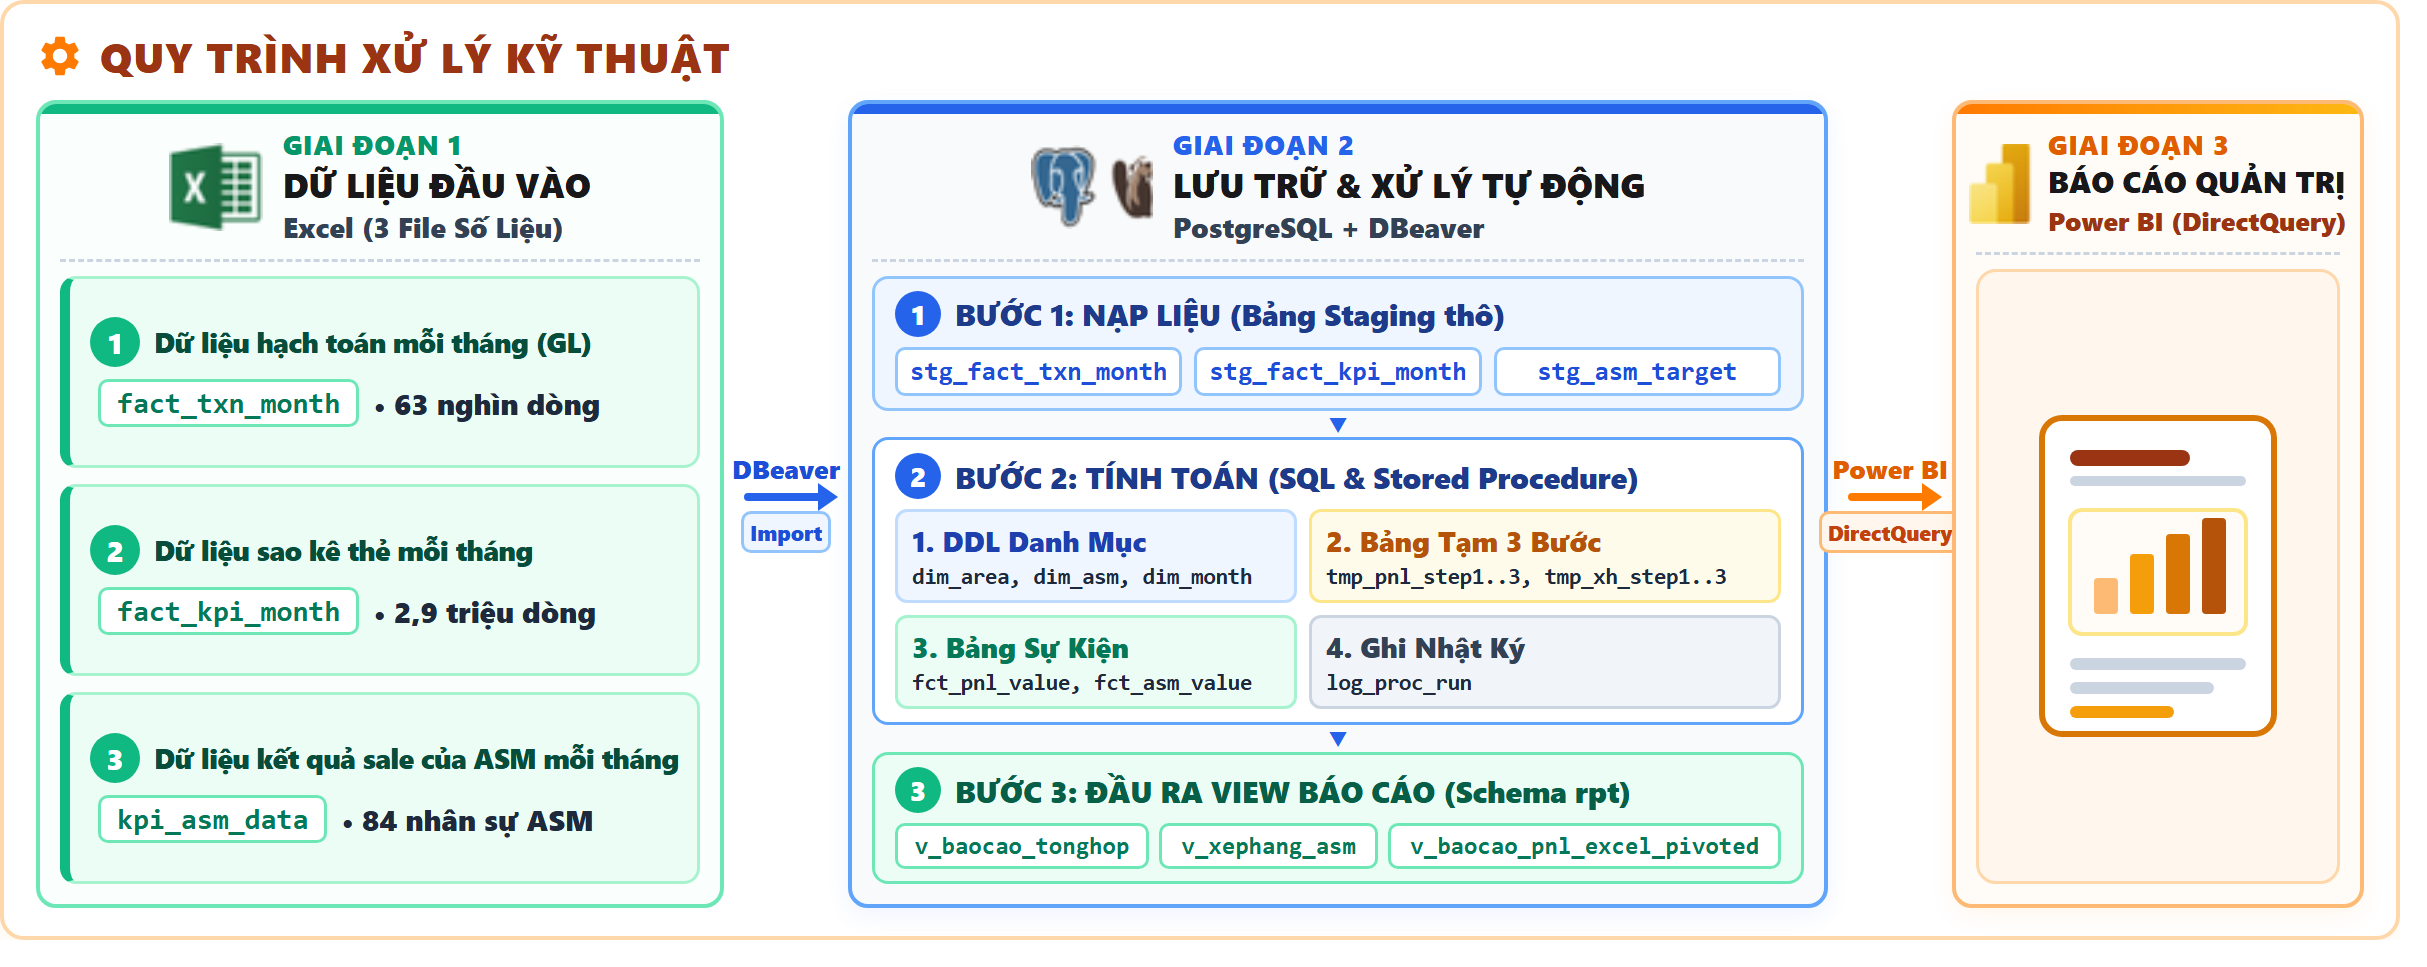
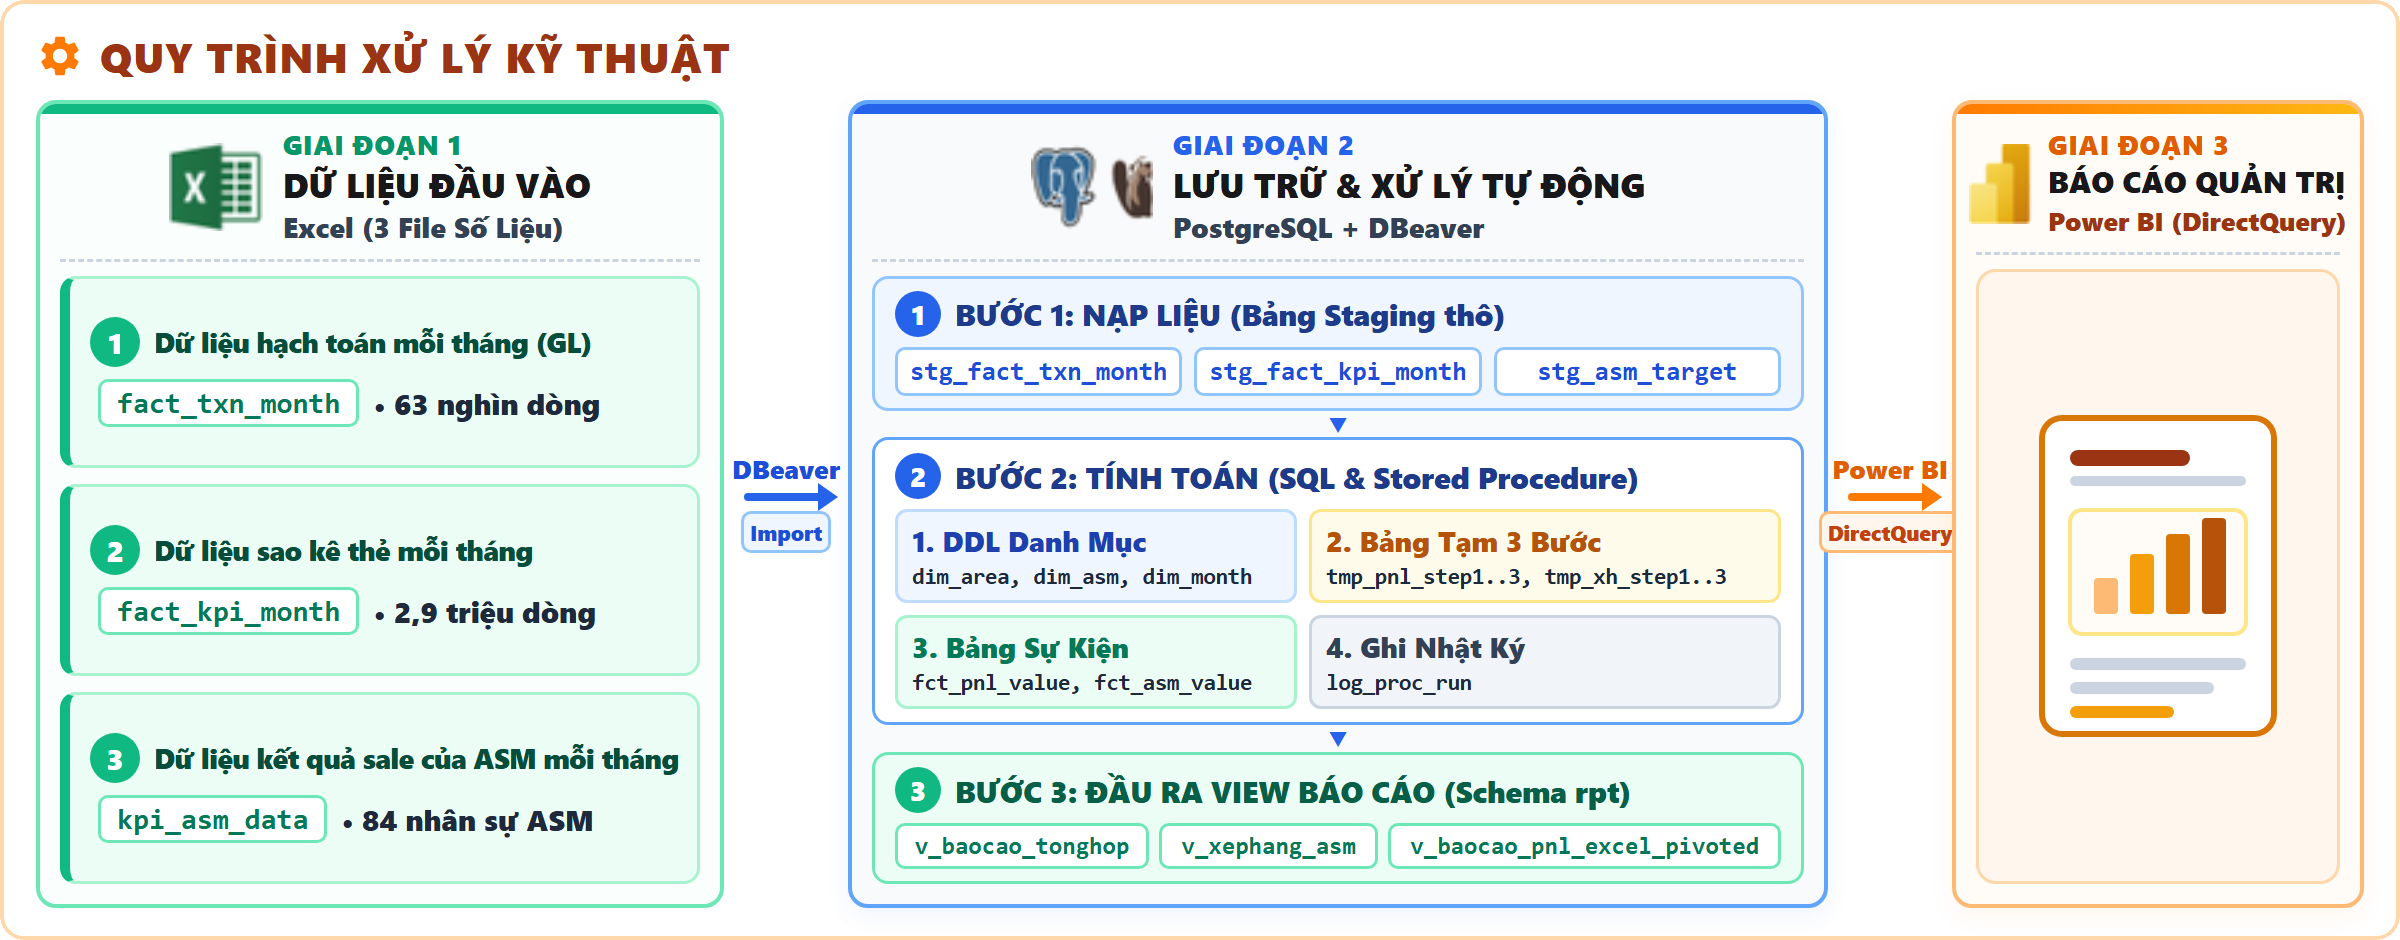
Cat bo ria trang thua va bo goc trong suot cho so do quy-trinh.png

Changed region(s): [[0.0, 0.0, 1.0, 1.0]]

diff --git a/docs/NHAT_KY_CONG_VIEC.md b/docs/NHAT_KY_CONG_VIEC.md
@@ -5,6 +5,11 @@
 
 ## ĐÃ XONG
 ### 2026-11-09
+243. **Xóa bỏ hoàn toàn dải rìa trắng bên ngoài ảnh sơ đồ quy trình xử lý kỹ thuật (`images/quy-trinh.png`)**
+   - Loại bỏ 27px dải trắng thừa ở cạnh phải và cạnh đáy (do bước crop trước để dư margin), đưa kích thước ảnh về chuẩn xác `2400 × 940 px` đúng theo viền khung container.
+   - Áp dụng kênh trong suốt (Alpha channel) bo tròn 4 góc bên ngoài viền khung, giúp sơ đồ hiển thị liền mạch, không còn vệt trắng trên mọi nền trình duyệt/GitHub.
+   - Cập nhật đồng bộ ảnh vào `images/quy-trinh.png` và artifact `quy_trinh_ky_thuat_visual.png`.
+### 2026-11-09
 242. **Gỡ bỏ 7 ảnh chụp các trang Power BI khỏi README song ngữ và kho mã theo yêu cầu người dùng**
    - Loại bỏ 7 khối ảnh chụp các trang Power BI (`tong-quan.png`, `tu-dien.png`, `ket-qua-kinh-doanh.png`, `xh-asm.png`, `danh-gia-kinh-doanh.png`, `danh-gia-asm.png`, `insight.png`) khỏi `README.md` và `README_eng.md`.
    - Giữ lại đúng 2 sơ đồ kỹ thuật cốt lõi: `quy-trinh.png` (Sơ đồ quy trình kỹ thuật 3 giai đoạn) và `thiet-ke-schema.png` (Mô hình kho dữ liệu Star Schema).
@@ -589,19 +594,6 @@ if not m:
 
 if m:
 
-179. **Xây Dựng Biểu Đồ SVG Trực Quan Hóa Các Ca Bị Kéo Tụt Hạng Và Nguyên Nhân (Visual Chart)**
-   - Triển khai chuyển đổi toàn bộ Panel 02 trên `performance_diagnosis_merged_chart_v2.html` thành **Biểu đồ SVG Trực quan (Visual Shift & Slope Chart)** chuyên nghiệp theo phản hồi của người dùng:
-     + **Trục hoành phân 3 vùng thứ hạng đồ họa**: Vùng Xanh lá (#1–#25: Top đầu) ──► Vùng Vàng (#26–#55: Trung bình) ──► Vùng Đỏ (#56–#84: Nguy hiểm / Đáy bảng).
-     + **Nhóm 1 (Tụt dốc phong độ T1 ──► T5)**: Vẽ vector mũi tên đỏ trượt dốc dài từ chấm xanh T1 sang chấm đỏ T5 (Hoàng Văn Bình −31 bậc; Nguyễn Thị Bích −29 bậc; Lê Thị Thu −25 bậc).
-     + **Nhóm 2 (Bán giỏi bị kéo chìm do lỗ vùng)**: Thể hiện chấm xanh lá tự thân xuất sắc (Trần Văn Hải Top 28, Lê Văn Bình Top 24) bị vector phạt đỏ kéo dạt/ghìm điểm do gánh 26đ sàn ĐNB (−48,8 tỷ); dải 14/19 quản lý ĐNB bị đẩy chìm xuống đáy bảng.
-     + **Cột nguyên nhân đồ họa bên phải**: Tích hợp các thẻ visual có badge định lượng đo lường và dòng nguyên nhân cốt lõi song hành cùng từng dòng vector.
-     + Bổ sung Legend màu sắc chuẩn xác và khung Kết luận & Giải pháp can thiệp cấp thiết ở đáy.
-   - **Verify**: Dùng headless Edge kết xuất ảnh cận cảnh (`.staging/sec02_visual_perfect_crop.png`, `.staging/sec02_visual_bottom_actions.png`) và soi chiếu thị giác máy tính, xác nhận 100% hình ảnh đồ họa trực quan, chuẩn xác.
-   - Cắt task 129 ở cuối danh sách, duy trì nghiêm ngặt trần 50 task (179 xuống 130).
-
-"""
-
-if '## ĐÃ XONG\
 ### 2026-11-05\
 178.' in text:
     text = text.replace('## ĐÃ XONG\
